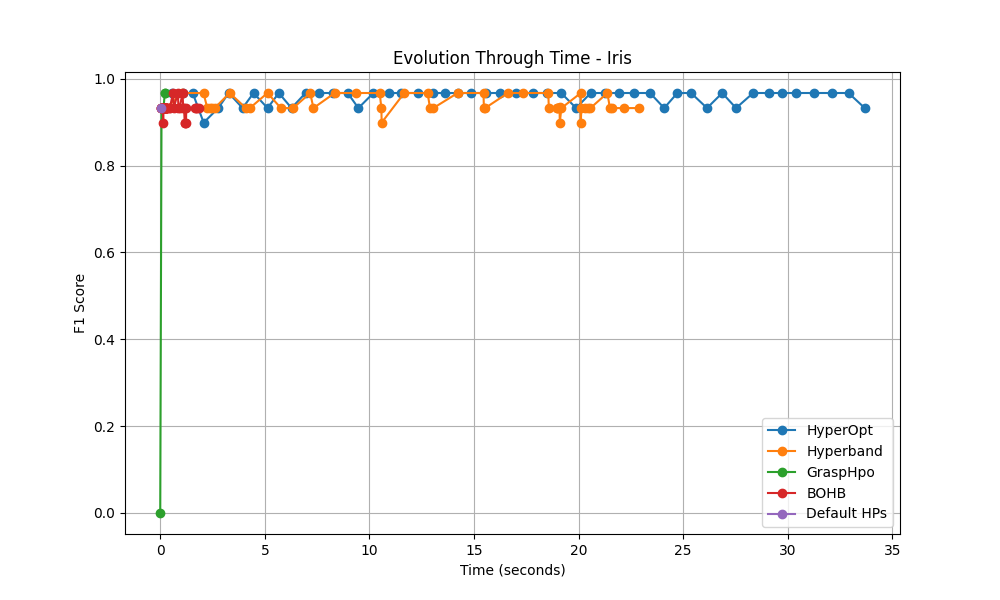
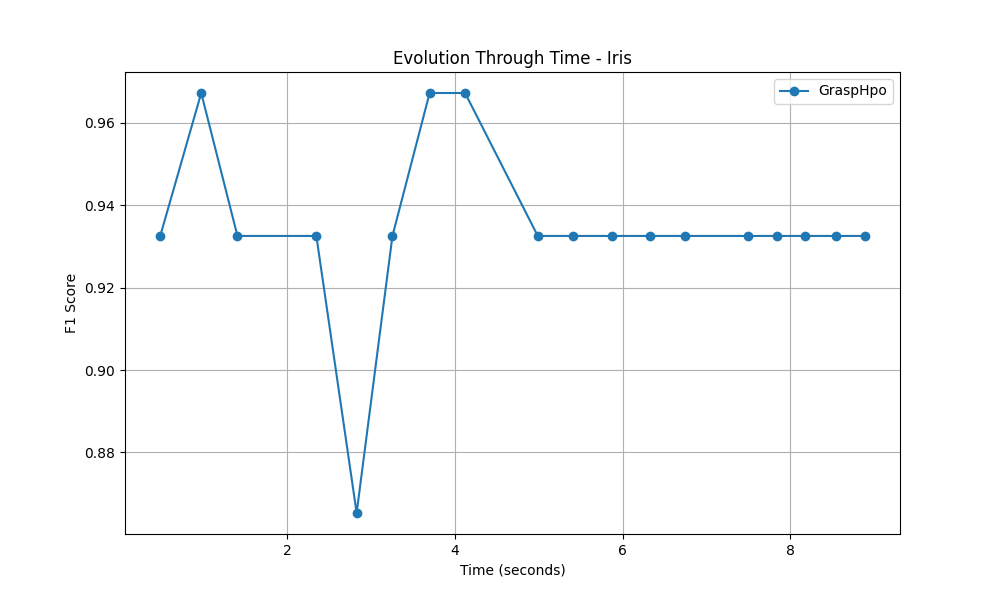
WIP split evaluation set

diff --git a/src/hpo/grasp/grasp_hpo.py b/src/hpo/grasp/grasp_hpo.py
@@ -8,11 +8,11 @@ from src.hpo.grasp.phase1grasp import Construction
 from src.hpo.grasp.phase2grasp import LocalSearch
 
 
-LOCAL_SEARCH_ITERATIONS = 2
+LOCAL_SEARCH_ITERATIONS = 5
 LOCAL_SEARCH_TIMELIMIT = 20
-BUILDING_PHASE_ITERATIONS = 1
+BUILDING_PHASE_ITERATIONS = 2
 BUILDING_PHASE_TIMELIMIT = 20
-INTERMEDIATE_RESULTS_SIZE = 5
+INTERMEDIATE_RESULTS_SIZE = 3
 
 
 class GraspHpo(HPOStrategy):
@@ -21,29 +21,18 @@ class GraspHpo(HPOStrategy):
         self.phase1 = Construction(self.evaluate_solution, BUILDING_PHASE_ITERATIONS, INTERMEDIATE_RESULTS_SIZE, BUILDING_PHASE_TIMELIMIT)
         self.phase2 = LocalSearch(self.evaluate_solution, LOCAL_SEARCH_ITERATIONS, LOCAL_SEARCH_TIMELIMIT)
 
-    def hyperparameter_optimization(self, x_train, x_test, y_train, y_test, search_space):
+    def hyperparameter_optimization(self, train_set, validation_set, test_set, search_space):
         start_time = time.time()
-        best_intermediate_combinations, f1_scores_evolution, time_evolution = self.phase1.building_phase(x_train, x_test, y_train, y_test, search_space, start_time)
+        best_intermediate_combinations, f1_scores_evolution, time_evolution = self.phase1.building_phase(train_set, validation_set, test_set, search_space, start_time)
         local_search_start_time = time.time()
-        local_best_sol, local_best_score, f1_scores_evolution2, time_evolution2 = self.phase2.local_search(best_intermediate_combinations, x_train, x_test, y_train, y_test, search_space, start_time, local_search_start_time)
+        local_best_sol, local_best_score, f1_scores_evolution2, time_evolution2 = self.phase2.local_search(best_intermediate_combinations, train_set, validation_set, test_set, search_space, start_time, local_search_start_time)
         f1_scores_evolution.extend(f1_scores_evolution2)
         time_evolution.extend(time_evolution2)
 
         return local_best_sol, local_best_score, (f1_scores_evolution, time_evolution)
 
     @staticmethod
-    def evaluate_solution(params, x_train, x_test, y_train, y_test, start_time):
-        # Define the custom evaluation function inside evaluate_solution to record time of each iteration
-        class TimeEvaluationCallback(xgboost.callback.TrainingCallback):
-            def __init__(self):
-                super().__init__()
-                self.times = []
-
-            def after_iteration(self, model, epoch, evals_log):
-                current_time = time.time()
-                self.times.append(current_time - start_time)
-                return False  # Return False to continue training
-
+    def evaluate_solution(params, train_set, validation_set, test_set, start_time):
         def evaluate_f1_score(predt: np.ndarray, dtrain: xgboost.DMatrix) -> np.ndarray:
             """Compute the f1 score"""
             y = dtrain.get_label()
@@ -55,30 +44,32 @@ class GraspHpo(HPOStrategy):
                 f1 = f1_score(y, np.argmax(predt, axis=1), average="weighted") if predt.ndim > 1 else f1_score(y, predt, average="weighted")
             return "f1_score", f1
 
-        class_quantity = len(np.unique(y_train))
+        test_labels = test_set.get_label()
+        class_quantity = len(np.unique(test_labels))
         if class_quantity > 2:
             params["objective"] = "multi:softmax"
             params["num_class"] = class_quantity
 
-        train_set = xgboost.DMatrix(data=x_train, label=y_train)
-        test_set = xgboost.DMatrix(data=x_test, label=y_test)
-
-        evals_result = {}
-
-        time_callback = TimeEvaluationCallback()
-
-        xgboost.train(
+        trained_model = xgboost.train(
             params,
             train_set,
-            evals=[(test_set, "eval")],
+            evals=[(validation_set, "eval")],
             verbose_eval=False,
             custom_metric=evaluate_f1_score,
             num_boost_round=100,
-            evals_result=evals_result,
-            callbacks=[time_callback]
         )
-        round_times = time_callback.times
 
-        f1_scores_per_round = evals_result['eval']['f1_score']
+        predictions = trained_model.predict(test_set)
+        y_pred = predictions
+        if class_quantity == 2 and predictions.ndim == 1:
+            threshold = 0.5
+            y_pred = np.array([1 if pred > threshold else 0 for pred in predictions])
 
-        return f1_scores_per_round, round_times
+        # For multiclass classification, ensure predictions are class labels
+        # If your model outputs probabilities (for example, using softmax), you need to convert these to class labels
+        if predictions.ndim > 1:
+            y_pred = np.argmax(predictions, axis=1)
+
+        f1 = f1_score(test_labels, y_pred, average='weighted')
+
+        return f1, time.time() - start_time

diff --git a/src/hpo/grasp/phase2grasp.py b/src/hpo/grasp/phase2grasp.py
@@ -29,7 +29,7 @@ class LocalSearch:
     def set_iter(self, num):
         if 0 < num < 512: self.max_iter = num
 
-    def local_search(self, intermed_best_sols: PriorityQueue, x_train, x_test, y_train, y_test, ranges: dict, start_time, phase_start_time, verbose=False):
+    def local_search(self, intermed_best_sols: PriorityQueue, train_set, validation_set, test_set, ranges: dict, start_time, phase_start_time, verbose=False):
         self.set_param(ranges)
 
         iter = 1
@@ -44,7 +44,7 @@ class LocalSearch:
             cur = intermed_best_sols.get()
 
             if verbose: print('LS iteration {}: \nBest solution after phase 1: {}\nCorresponding score: {}'.format(iter, cur[2], cur[0]))
-            tmp_score, tmp_sol = self.hill_climb(cur[2], x_train, x_test, y_train, y_test, phase_start_time, start_time, f1_scores_evolution, time_evolution)
+            tmp_score, tmp_sol = self.hill_climb(cur[2], train_set, validation_set, test_set, phase_start_time, start_time, f1_scores_evolution, time_evolution)
             if verbose: print('LS iteration {}: \nBest solution after phase 2: {}\nCorresponding score: {}\n'.format(iter, tmp_sol, tmp_score))
 
             if tmp_score > local_best_score:
@@ -55,12 +55,10 @@ class LocalSearch:
 
         return local_best_sol, local_best_score, f1_scores_evolution, time_evolution
 
-    def hill_climb(self, cur_sol: dict, x_train, x_test, y_train, y_test, phase_start_time, start_time, f1_scores_evolution, time_evolution):
+    def hill_climb(self, cur_sol: dict, train_set, validation_set, test_set, phase_start_time, start_time, f1_scores_evolution, time_evolution):
         best_sol = cur_sol
-        f1_scores_per_round, round_times = self.evaluate(cur_sol, x_train, x_test, y_train, y_test, start_time)
-        f1_scores_evolution.extend(f1_scores_per_round)
-        time_evolution.extend(round_times)
-        best_score = max(f1_scores_per_round)
+        f1_score, iteration_time = self.evaluate(cur_sol, train_set, validation_set, test_set, start_time)
+        best_score = f1_score
 
         for _ in range(self.max_iter):
 
@@ -68,10 +66,11 @@ class LocalSearch:
                 break
 
             neighbor_sol = self.generate_neighbor(cur_sol)
-            neighbor_scores, neighbor_times = self.evaluate(neighbor_sol, x_train, x_test, y_train, y_test, start_time)
-            f1_scores_evolution.extend(neighbor_scores)
-            time_evolution.extend(neighbor_times)
-            neighbor_score = max(neighbor_scores)
+
+            neighbor_score, neighbor_time = self.evaluate(neighbor_sol, train_set, validation_set, test_set, start_time)
+            f1_scores_evolution.append(neighbor_score)
+            time_evolution.append(neighbor_time)
+
             if neighbor_score > best_score:
                 best_sol = neighbor_sol
                 best_score = neighbor_score

diff --git a/src/hpo/grasp/phase1grasp.py b/src/hpo/grasp/phase1grasp.py
@@ -33,21 +33,19 @@ class Construction:
         else:
             return random.uniform(hyperparameter_range[0], hyperparameter_range[1])
 
-    def building_phase(self, x_train, x_test, y_train, y_test, search_space, start_time):
+    def building_phase(self, train_set, validation_set, test_set, search_space, start_time):
         # print('\nStarting building phase...')
         best_intermediate_combinations = PriorityQueue()
 
-        f1_scores, times = self.evaluate(DEFAULT_HYPERPARAMETERS, x_train, x_test, y_train, y_test, start_time)
-        best_intermediate_combinations.put((f1_scores[-1], uuid.uuid4(), DEFAULT_HYPERPARAMETERS))
-        f1_scores_evolution = f1_scores
-        time_evolution = times
+        f1_score, iteration_time = self.evaluate(DEFAULT_HYPERPARAMETERS, train_set, validation_set, test_set, start_time)
+        f1_scores_evolution = [f1_score]
+        time_evolution = [iteration_time]
+
+        best_intermediate_combinations.put((f1_score, uuid.uuid4(), DEFAULT_HYPERPARAMETERS))
+
         for i in range(self.max_iter):
             if time.time() - start_time > self.timelimit:
                 break
-
-            scaler = StandardScaler()
-            x_train = scaler.fit_transform(x_train)
-            x_test = scaler.transform(x_test)
 
             selected_hyperparameters = {
                 'max_depth': self.get_random_hyperparameter_value('max_depth', search_space['max_depth']),
@@ -59,12 +57,12 @@ class Construction:
                 "gamma":  self.get_random_hyperparameter_value('gamma', search_space['gamma'])
             }
 
-            f1_scores, times = self.evaluate(selected_hyperparameters, x_train, x_test, y_train, y_test, start_time)
+            f1_score, iteration_time = self.evaluate(selected_hyperparameters, train_set, validation_set, test_set, start_time)
 
-            f1_scores_evolution.extend(f1_scores)
-            time_evolution.extend(times)
+            f1_scores_evolution.append(f1_score)
+            time_evolution.append(iteration_time)
 
-            best_intermediate_combinations.put((f1_scores[-1], uuid.uuid4(), selected_hyperparameters))
+            best_intermediate_combinations.put((f1_score, uuid.uuid4(), selected_hyperparameters))
             if best_intermediate_combinations.qsize() > self.intermediate_results_size:
                 best_intermediate_combinations.get()
 

diff --git a/src/main.py b/src/main.py
@@ -3,6 +3,7 @@ from sklearn.model_selection import train_test_split
 from src.input.dataset_factory import DatasetFactory
 from src.hpo.hpo_factory import HPOFactory
 import time
+import xgboost
 from src.output.chart_builder import plot_final_metrics, plot_evolution_through_time
 
 HYPERPARAMETER_RANGES = {
@@ -19,17 +20,23 @@ HYPERPARAMETER_RANGES = {
 class Main:
     @staticmethod
     def prepare_dataset(dataset):
-        x = dataset.data
-        y = dataset.target
-        return train_test_split(x, y, test_size=0.2, random_state=1)
+        x_temp, x_test, y_temp, y_test = train_test_split(dataset.data, dataset.target, test_size=0.2, random_state=1)
+
+        x_train, x_val, y_train, y_val = train_test_split(x_temp, y_temp, test_size=0.25, random_state=1)  # 0.25 x 0.8 = 0.2
+
+        train_set = xgboost.DMatrix(data=x_train, label=y_train)
+        validation_set = xgboost.DMatrix(data=x_val, label=y_val)
+        test_set = xgboost.DMatrix(data=x_test, label=y_test)
+
+        return train_set, validation_set, test_set
 
     @staticmethod
     def evaluate_hpo(strategy_name, dataset):
-        x_train, x_test, y_train, y_test = Main.prepare_dataset(dataset)
+        train_set, validation_set, test_set = Main.prepare_dataset(dataset)
         hpo = HPOFactory.create_hpo_strategy(strategy_name)
         start_time = time.time()
         best_trial_config, best_trial_score, evolution_through_time = hpo.hyperparameter_optimization(
-            x_train, x_test, y_train, y_test, HYPERPARAMETER_RANGES
+            train_set, validation_set, test_set, HYPERPARAMETER_RANGES
         )
         end_time = time.time()
         evaluation_time = end_time - start_time
@@ -40,8 +47,8 @@ class Main:
         dataset_names = ['Breast Cancer', 'Digits', 'Iris', 'Wine', 'Ereno']
         # dataset_names = ['Breast Cancer', 'Digits', 'Iris', 'Wine']
         # dataset_names = ['Ereno']
-        strategies = ['HyperOpt', 'Hyperband', 'GraspHpo', 'BOHB', 'Default HPs']
-        # strategies = ['GraspHpo']
+        # strategies = ['HyperOpt', 'Hyperband', 'GraspHpo', 'BOHB', 'Default HPs']
+        strategies = ['GraspHpo']
         # strategies = ['BOHB']
         # strategies = ['Default HPs']
 

diff --git a/src/output/chart_builder.py b/src/output/chart_builder.py
@@ -9,14 +9,14 @@ def plot_final_metrics(data, save_path):
     fig, (ax1, ax2) = plt.subplots(1, 2, figsize=(14, 6))
 
     f1_score_df = df.pivot(index="input", columns="hpo_strategy", values="f1_score")
-    f1_score_df.plot(kind="line", ax=ax1, linestyle='dashed')
+    f1_score_df.plot(kind="line", ax=ax1, marker='o', linestyle='dashed')
     ax1.set_ylabel("F1 Score")
     ax1.set_xlabel("Dataset")
     ax1.set_title("F1 Score Comparison: GRASP vs. Hyperband")
     ax1.legend(title="HPO Strategy results")
 
     time_df = df.pivot(index="input", columns="hpo_strategy", values="evaluation_time")
-    time_df.plot(kind="line", ax=ax2)
+    time_df.plot(kind="line", ax=ax2, marker='o')
     ax2.set_ylabel("Evaluation Time (s)")
     ax2.set_xlabel("Dataset")
     ax2.set_title("Evaluation Time Comparison: GRASP vs. Hyperband")
@@ -37,7 +37,7 @@ def plot_evolution_through_time(data, dataset_names, output_path):
         for item in data:
             if item['input'] == dataset_name:
                 strategy, f1_scores, times = item["hpo_strategy"], item["evolution_through_time"][0], item["evolution_through_time"][1]
-                plt.plot(times, f1_scores, label=f"{strategy}")
+                plt.plot(times, f1_scores, marker='o', label=f"{strategy}")
 
         plt.title(f'Evolution Through Time - {dataset_name}')
         plt.xlabel('Time (seconds)')

diff --git a/src/hpo/hpo_strategy.py b/src/hpo/hpo_strategy.py
@@ -3,5 +3,5 @@ from abc import abstractmethod, ABC
 
 class HPOStrategy(ABC):
     @abstractmethod
-    def hyperparameter_optimization(self, x_train, x_test, y_train, y_test, search_space):
+    def hyperparameter_optimization(self, train_set, validation_set, test_set, search_space):
         pass
